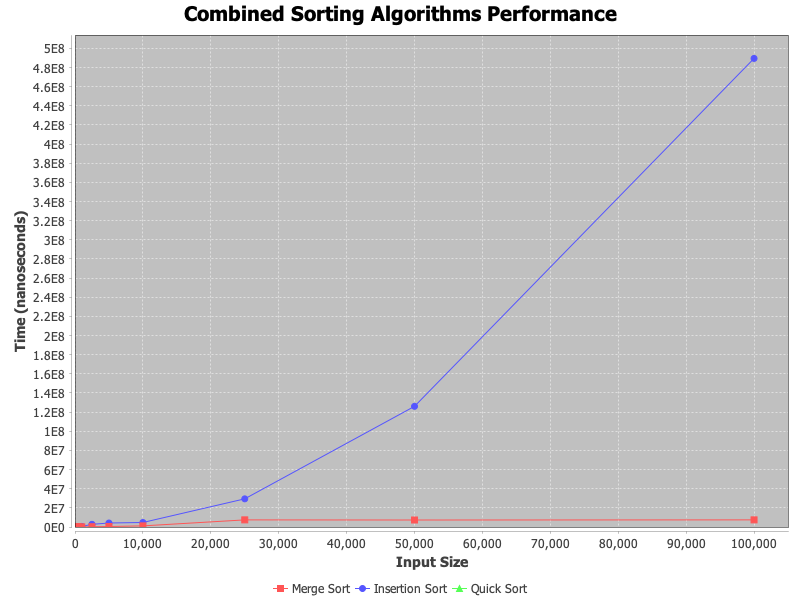
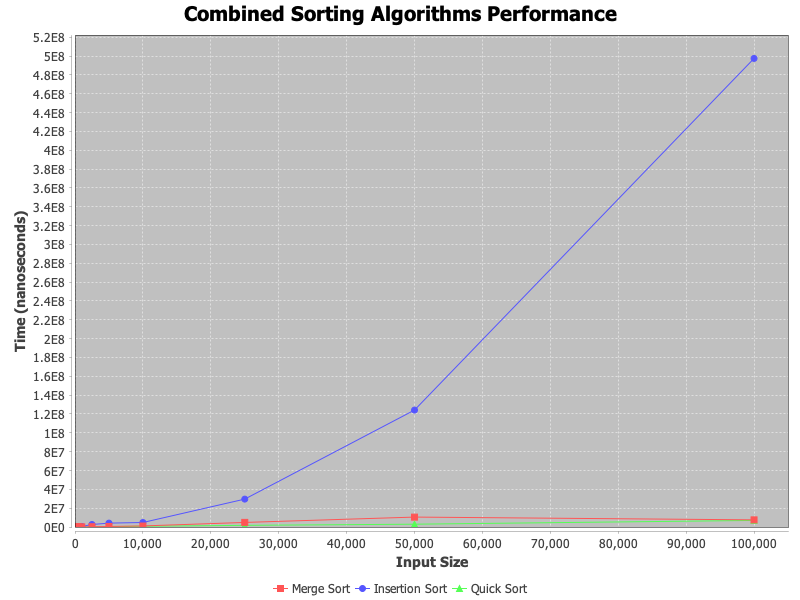
add merge sort

diff --git a/assignment1/src/Algorithms/QuickSort.java b/assignment1/src/Algorithms/QuickSort.java
@@ -1,0 +1,66 @@
+package Algorithms;
+
+public class QuickSort implements SortingAlgorithm {
+    public int doSort(int[] arr) {
+        int comparisons = 0;
+        
+        if (arr == null || arr.length <= 1) {
+            return comparisons;
+        }
+        
+        comparisons = quickSort(arr, 0, arr.length - 1);
+        
+        return comparisons;
+    }
+    
+    private int quickSort(int[] arr, int low, int high) {
+        int comparisons = 0;
+        
+        if (low < high) {
+            // Partition the array and get the pivot position
+            int[] result = partition(arr, low, high);
+            int pivotIndex = result[0];
+            comparisons += result[1];
+            
+            // Recursively sort the sub-arrays
+            comparisons += quickSort(arr, low, pivotIndex - 1);  // Sort left of pivot
+            comparisons += quickSort(arr, pivotIndex + 1, high); // Sort right of pivot
+        }
+        
+        return comparisons;
+    }
+    
+    private int[] partition(int[] arr, int low, int high) {
+        int comparisons = 0;
+        
+        // Choose the rightmost element as pivot
+        int pivot = arr[high];
+        
+        // Index of smaller element
+        int i = low - 1;
+        
+        // Traverse through all elements
+        // compare each element with pivot
+        for (int j = low; j < high; j++) {
+            comparisons++; // Count comparison
+            
+            // If current element is smaller than the pivot
+            if (arr[j] <= pivot) {
+                i++;
+                
+                // Swap arr[i] and arr[j]
+                int temp = arr[i];
+                arr[i] = arr[j];
+                arr[j] = temp;
+            }
+        }
+        
+        // Swap arr[i+1] and arr[high] (or pivot)
+        int temp = arr[i + 1];
+        arr[i + 1] = arr[high];
+        arr[high] = temp;
+        
+        // Return the pivot index and number of comparisons
+        return new int[] {i + 1, comparisons};
+    }
+}

diff --git a/assignment1/src/Main.java b/assignment1/src/Main.java
@@ -1,5 +1,6 @@
 import Algorithms.InsertionSort;
 import Algorithms.MergeSort;
+import Algorithms.QuickSort;
 import Algorithms.SortingAlgorithm;
 import org.jfree.chart.ChartFactory;
 import org.jfree.chart.ChartUtils;
@@ -32,17 +33,18 @@ public class Main {
 
         InsertionSort insertionSort = new InsertionSort();
         MergeSort mergeSort = new MergeSort();
+        QuickSort quickSort = new QuickSort();
 
         int[] warmUpArray = generateRandomArray(1000);
         insertionSort.doSort(warmUpArray);
 
         testAlgorithm("Insertion Sort", inputSizes, testArrays, insertionSort, algorithmResults);
         testAlgorithm("Merge Sort", inputSizes, testArrays, mergeSort, algorithmResults);
-        // testAlgorithm("Quick Sort", inputSizes, testArrays, Main::quickSort, algorithmResults);
+         testAlgorithm("Quick Sort", inputSizes, testArrays, quickSort, algorithmResults);
 
         createScatterPlot(algorithmResults.get("Insertion Sort"), "Insertion Sort Performance", "Input Size", "Time (nanoseconds)", "InsertionSortScatterPlot.png");
         createScatterPlot(algorithmResults.get("Merge Sort"), "Merge Sort Performance", "Input Size", "Time (nanoseconds)", "MergeSortScatterPlot.png");
-        // createScatterPlot(algorithmResults.get("Quick Sort"), "Quick Sort Performance", "Input Size", "Time (nanoseconds)", "QuickSortScatterPlot.png");
+         createScatterPlot(algorithmResults.get("Quick Sort"), "Quick Sort Performance", "Input Size", "Time (nanoseconds)", "QuickSortScatterPlot.png");
 
         createCombinedScatterPlot(algorithmResults, "Combined Sorting Algorithms Performance", "Input Size", "Time (nanoseconds)", "CombinedSortingAlgorithmsScatterPlot.png");
     }
